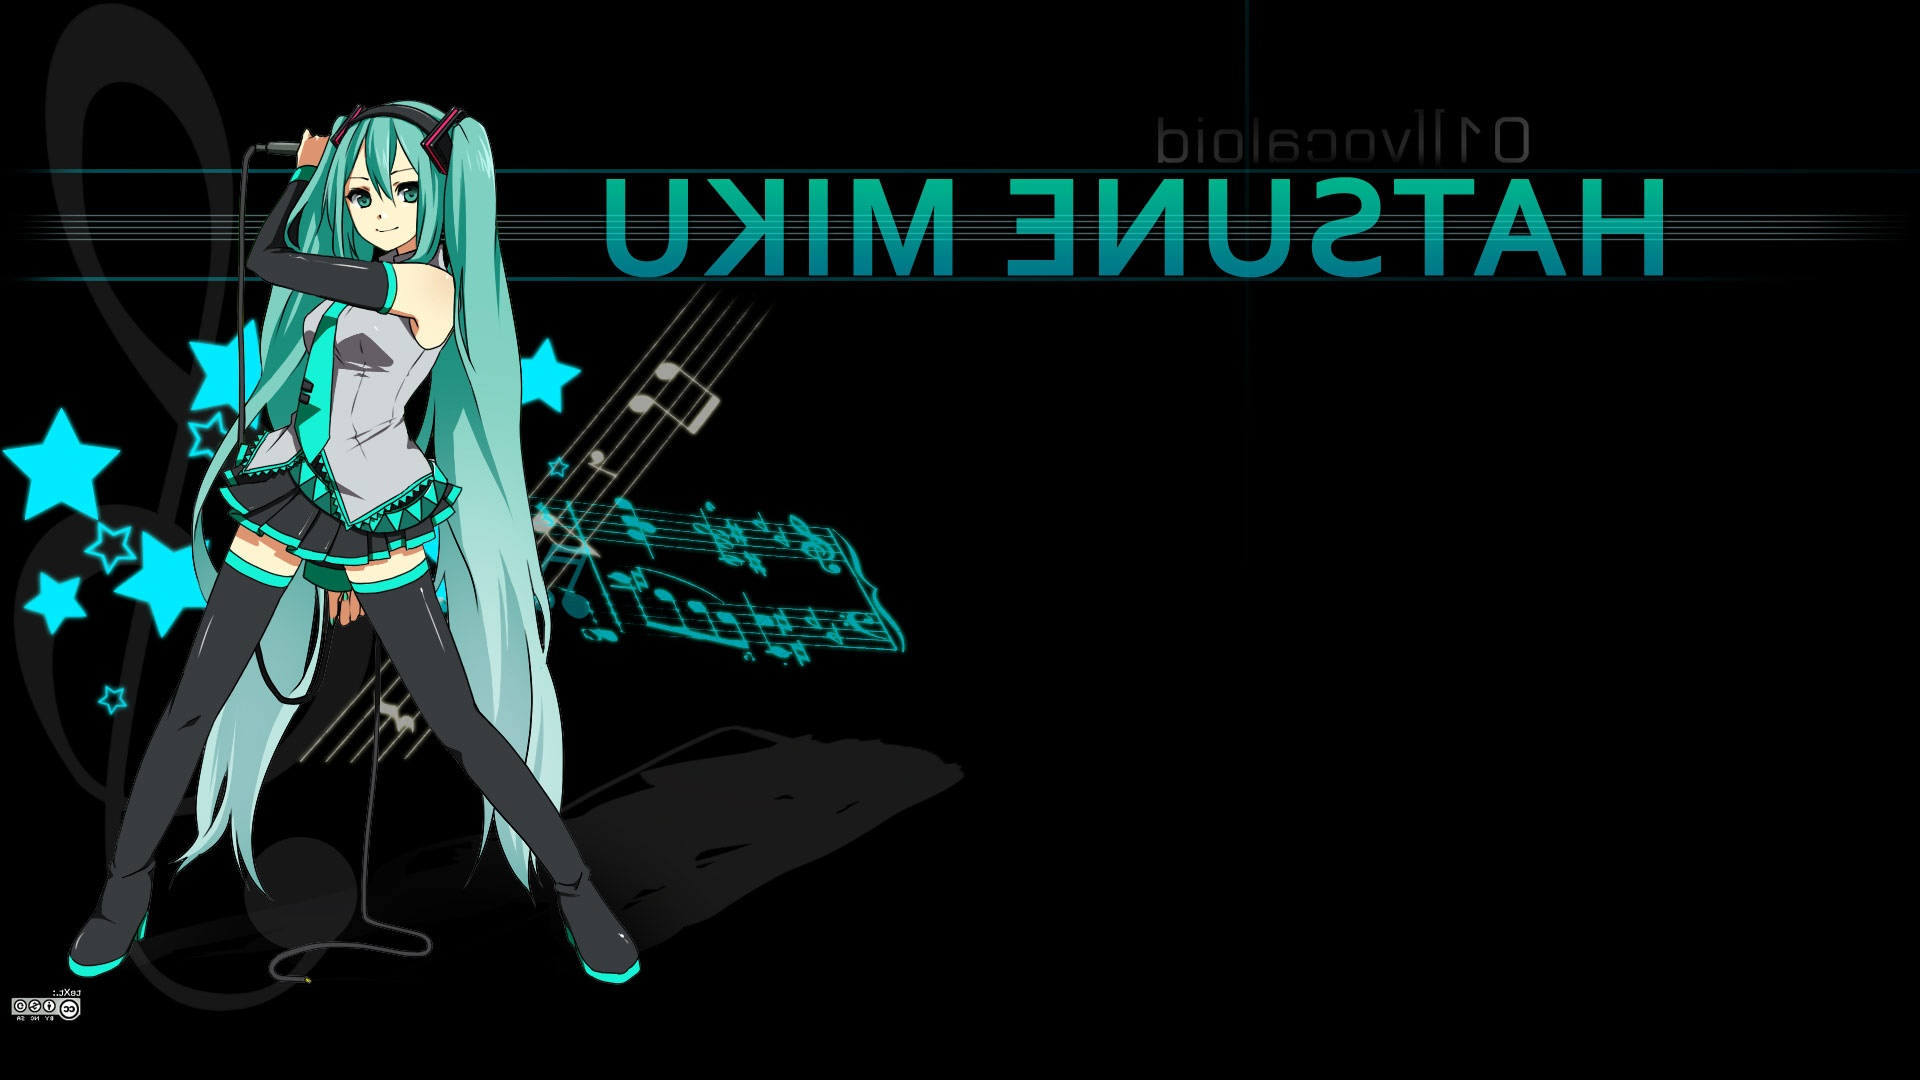
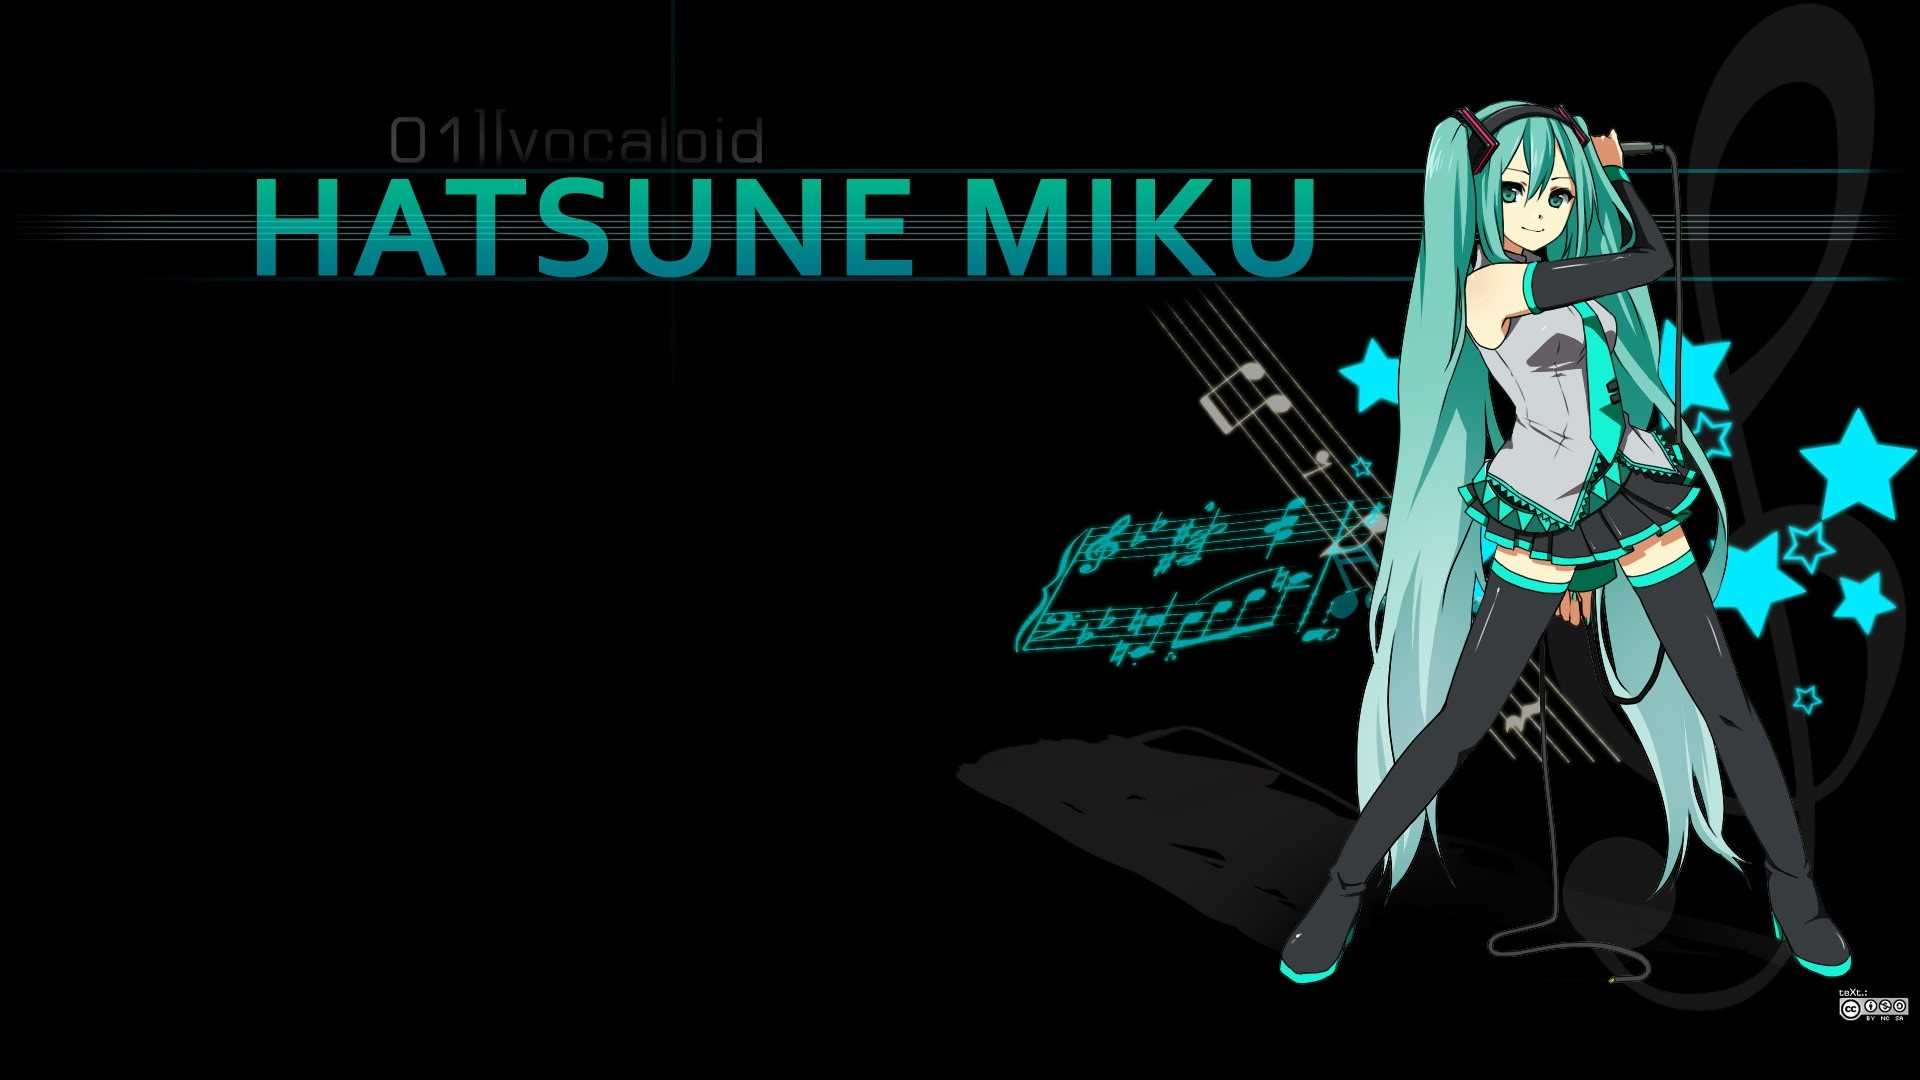
:ok_hand: Anti-Aliasing + :wrench: Fix inverted image

diff --git a/public/lib/game_view.js b/public/lib/game_view.js
@@ -68,6 +68,8 @@ class GameView {
   backgroundSetup() {
     let backgroundGeometry = new THREE.BoxGeometry( 1920, 1080, 1000 );
     var texture = new THREE.TextureLoader().load( 'photos/stage.jpeg' );
+    texture.wrapS = THREE.RepeatWrapping;
+    texture.repeat.x = - 1;
     texture.minFilter = THREE.NearestFilter;
     let backgroundMaterials = [ "", "", "", "", "",
       new THREE.MeshPhongMaterial( {
@@ -213,7 +215,7 @@ class GameView {
             (this.zStartPoint));
           }, songNote.startTime + latency
           );
-        var res = this.gameNotes.setNoteCheck(songNote.position, songNote.startTime + latency);
+        this.gameNotes.setNoteCheck(songNote.position, songNote.startTime + latency);
       })
     }
   }

diff --git a/public/lib/game.js b/public/lib/game.js
@@ -153,7 +153,7 @@ class Game {
 
     camera.position.z = 150;
 
-    let renderer = new THREE.WebGLRenderer();
+    let renderer = new THREE.WebGLRenderer({antialias: true});
     renderer.setSize( width, height );
     document.getElementById('game-canvas').appendChild( renderer.domElement );
 
